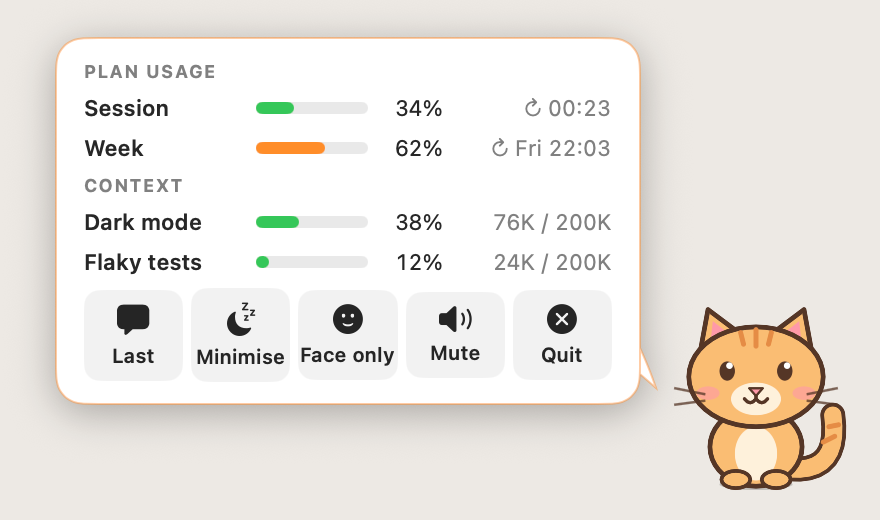
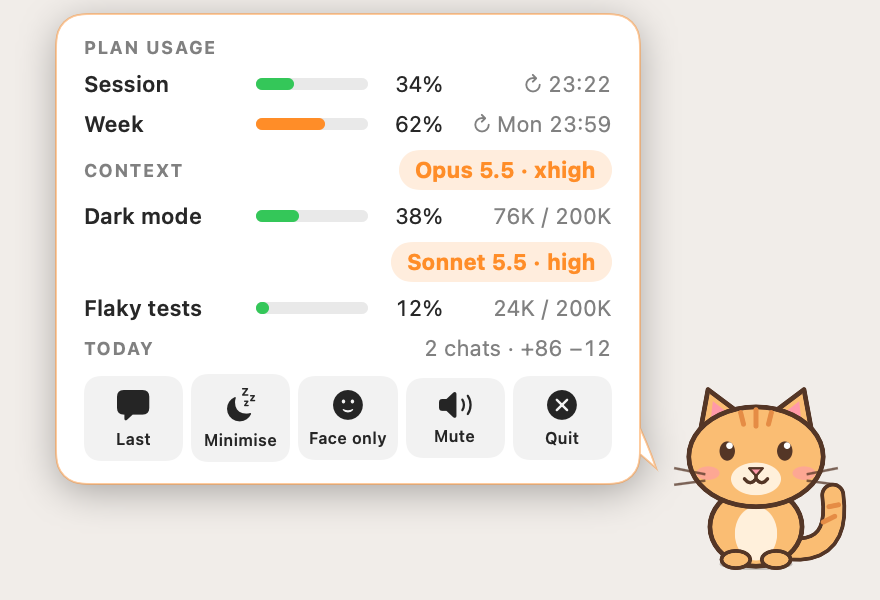
README: refresh the menu screenshot with the model and effort chips
Claude-Session: https://claude.ai/code/session_01KjC1o3kf1jXNwGgFDNycww

diff --git a/README.md b/README.md
@@ -4,7 +4,7 @@ A tiny desktop cat that shows what [Claude Code](https://claude.com/claude-code)
 
 Free and open source under the MIT license. One Swift file, no dependencies, and nothing leaves your machine.
 
-<p align="center"><img src="docs/menu.png" width="520" alt="The menu: plan usage, context per chat, and controls"></p>
+<p align="center"><img src="docs/menu.png" width="520" alt="The menu: plan usage, model and effort, context per chat, lines changed today, and controls"></p>
 
 <p align="center"><sub>The menu: plan usage, context per chat, and controls.</sub></p>
 
